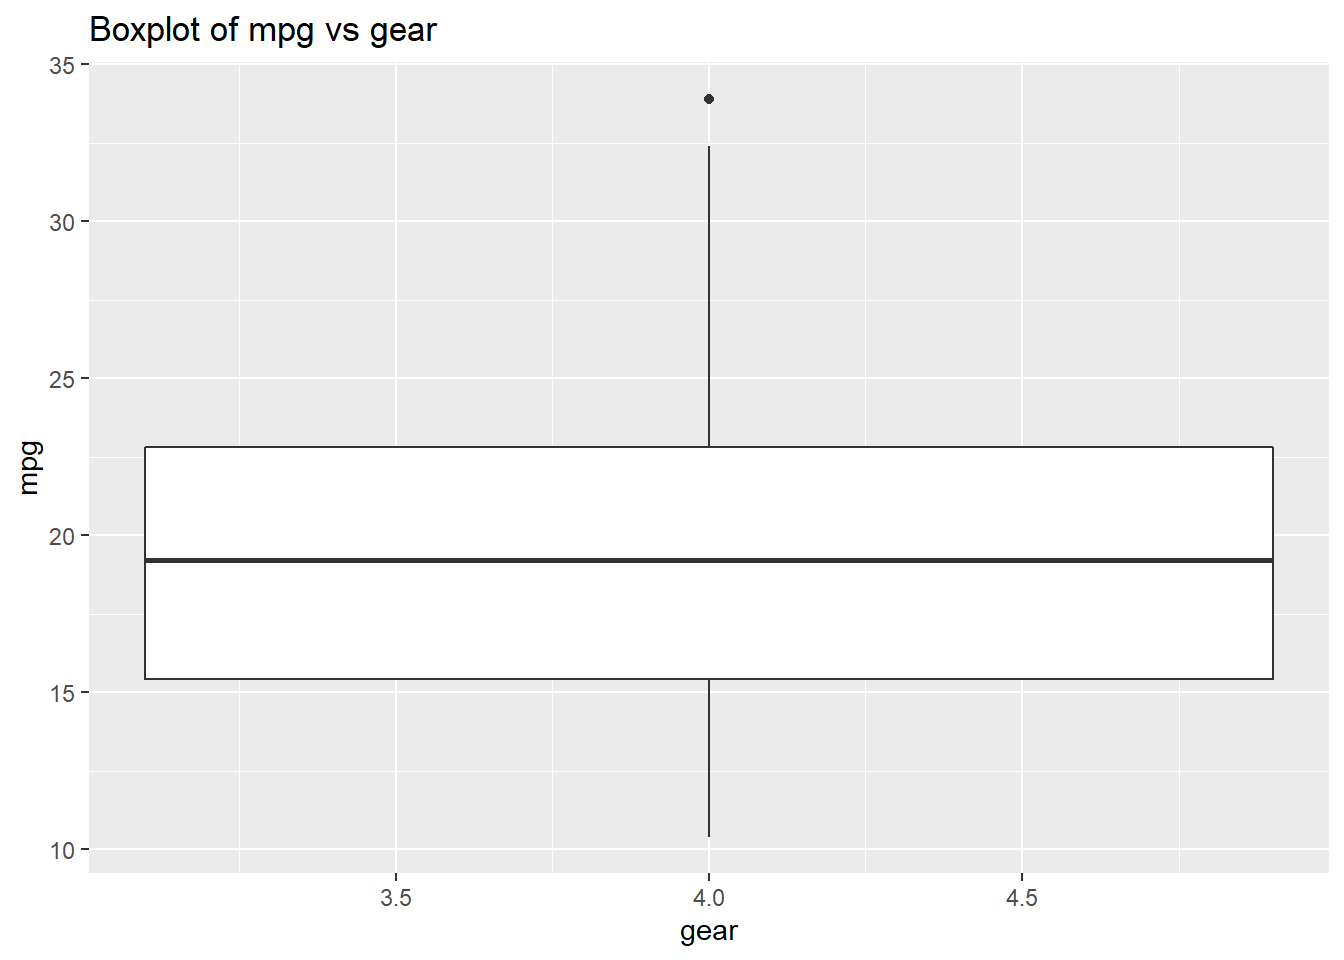
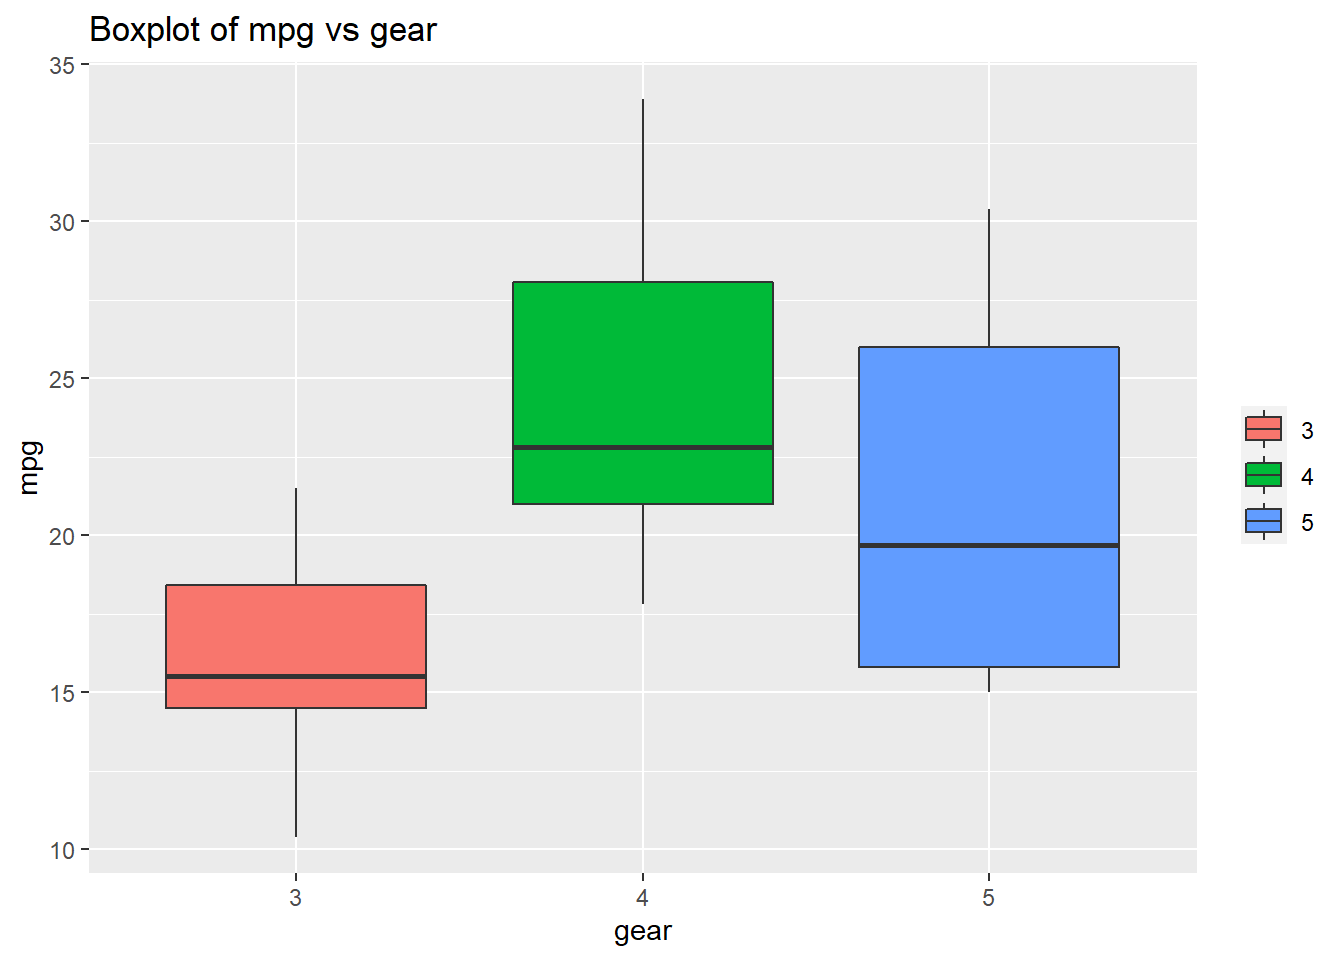
some changes

diff --git a/docs/first-analysis.html b/docs/first-analysis.html
@@ -504,22 +504,24 @@ This reproducible <a href="http://rmarkdown.rstudio.com">R Markdown</a> analysis
 <div class="panel panel-default">
 <div class="panel-heading">
 <p class="panel-title">
-<a data-toggle="collapse" data-parent="#workflowr-checks" href="#strongRepositoryversionstrongahrefhttpsgithubcomsamanwoy1989dummyprojecttree28acb79a84bc8ef421eb36417bda41cee24a1798targetblank28acb79a"> <span class="glyphicon glyphicon-ok text-success" aria-hidden="true"></span> <strong>Repository version:</strong> <a href="https://github.com/samanwoy1989/dummyproject/tree/28acb79a84bc8ef421eb36417bda41cee24a1798" target="_blank">28acb79</a> </a>
+<a data-toggle="collapse" data-parent="#workflowr-checks" href="#strongRepositoryversionstrongahrefhttpsgithubcomsamanwoy1989dummyprojecttree853419b6a172e4cd4d84f2b27a9aa2af71fd3926targetblank853419ba"> <span class="glyphicon glyphicon-ok text-success" aria-hidden="true"></span> <strong>Repository version:</strong> <a href="https://github.com/samanwoy1989/dummyproject/tree/853419b6a172e4cd4d84f2b27a9aa2af71fd3926" target="_blank">853419b</a> </a>
 </p>
 </div>
[2 lines of base64/hex data omitted]
 <div class="panel-body">
 <p>
 Great! You are using Git for version control. Tracking code development and connecting the code version to the results is critical for reproducibility.
 </p>
 <p>
-The results in this page were generated with repository version <a href="https://github.com/samanwoy1989/dummyproject/tree/28acb79a84bc8ef421eb36417bda41cee24a1798" target="_blank">28acb79</a>. See the <em>Past versions</em> tab to see a history of the changes made to the R Markdown and HTML files.
+The results in this page were generated with repository version <a href="https://github.com/samanwoy1989/dummyproject/tree/853419b6a172e4cd4d84f2b27a9aa2af71fd3926" target="_blank">853419b</a>. See the <em>Past versions</em> tab to see a history of the changes made to the R Markdown and HTML files.
 </p>
 <p>
 Note that you need to be careful to ensure that all relevant files for the analysis have been committed to Git prior to generating the results (you can use <code>wflow_publish</code> or <code>wflow_git_commit</code>). workflowr only checks the R Markdown file, but you know if there are other scripts or data files that it depends on. Below is the status of the Git repository when the results were generated:
 </p>
 <pre><code>
-working directory clean
+Unstaged changes:
+    Modified:   analysis/about.Rmd
+
 </code></pre>
 <p>
 Note that any generated files, e.g. HTML, png, CSS, etc., are not included in this status report because it is ok for generated content to have uncommitted changes.
@@ -562,6 +564,40 @@ Message
 Rmd
 </td>
 <td>
+<a href="https://github.com/samanwoy1989/dummyproject/blob/853419b6a172e4cd4d84f2b27a9aa2af71fd3926/analysis/first-analysis.Rmd" target="_blank">853419b</a>
+</td>
+<td>
+Samanwoy Mukhopadhyay
+</td>
+<td>
+2020-09-18
+</td>
+<td>
+wflow_git_commit(“analysis/”)
+</td>
+</tr>
+<tr>
+<td>
+html
+</td>
+<td>
+<a href="https://rawcdn.githack.com/samanwoy1989/dummyproject/af764675da27c3e96767caff268a30aac62794c3/docs/first-analysis.html" target="_blank">af76467</a>
+</td>
+<td>
+Samanwoy Mukhopadhyay
+</td>
+<td>
+2020-09-18
+</td>
+<td>
+Build site.
+</td>
+</tr>
+<tr>
+<td>
+Rmd
+</td>
+<td>
 <a href="https://github.com/samanwoy1989/dummyproject/blob/28acb79a84bc8ef421eb36417bda41cee24a1798/analysis/first-analysis.Rmd" target="_blank">28acb79</a>
 </td>
 <td>
@@ -583,6 +619,7 @@ wflow_publish(“analysis/first-analysis.Rmd”)
 </div>
 <div id="introduction" class="section level2">
 <h2>Introduction</h2>
+<p>I am trying to change the image but it is still taking the first image generated. this means the caching is on.</p>
 <pre class="r"><code>library(tidyverse)</code></pre>
 <pre><code>Warning: package &#39;tidyverse&#39; was built under R version 4.0.2</code></pre>
 <pre><code>-- Attaching packages -------------- tidyverse 1.3.0 --</code></pre>
@@ -596,12 +633,11 @@ v readr   1.3.1     v forcats 0.5.0</code></pre>
 x dplyr::filter() masks stats::filter()
 x dplyr::lag()    masks stats::lag()</code></pre>
 <pre class="r"><code>dat = as_tibble(mtcars)
-mtcars$gear = factor(mtcars$gear)
+dat$gear = factor(mtcars$gear)
 ggplot(dat, aes(x=gear, y=mpg, fill=gear))+
   geom_boxplot()+
   ggtitle(&quot;Boxplot of mpg vs gear&quot;)+
   theme(legend.title = element_blank())</code></pre>
-<pre><code>Warning: Continuous x aesthetic -- did you forget aes(group=...)?</code></pre>
 <div class="figure" style="text-align: left">
 <img src="figure/first-analysis.Rmd/unnamed-chunk-1-1.png" alt="A dummy boxplot trying for project testing" width="672" />
 <p class="caption">
@@ -631,9 +667,9 @@ attached base packages:
 [1] stats     graphics  grDevices utils     datasets  methods   base     
 
 other attached packages:
- [1] forcats_0.5.0   stringr_1.4.0   dplyr_1.0.0     purrr_0.3.4    
- [5] readr_1.3.1     tidyr_1.1.0     tibble_3.0.3    ggplot2_3.3.2  
- [9] tidyverse_1.3.0 workflowr_1.6.2
+[1] forcats_0.5.0   stringr_1.4.0   dplyr_1.0.0     purrr_0.3.4    
+[5] readr_1.3.1     tidyr_1.1.0     tibble_3.0.3    ggplot2_3.3.2  
+[9] tidyverse_1.3.0
 
 loaded via a namespace (and not attached):
  [1] tidyselect_1.1.0  xfun_0.15         haven_2.3.1       colorspace_1.4-1 
@@ -641,16 +677,16 @@ loaded via a namespace (and not attached):
  [9] blob_1.2.1        rlang_0.4.7       later_1.1.0.1     pillar_1.4.6     
 [13] withr_2.2.0       glue_1.4.1        DBI_1.1.0         dbplyr_1.4.4     
 [17] modelr_0.1.8      readxl_1.3.1.9000 lifecycle_0.2.0   munsell_0.5.0    
-[21] gtable_0.3.0      cellranger_1.1.0  rvest_0.3.5       evaluate_0.14    
-[25] labeling_0.3      knitr_1.29        httpuv_1.5.4      fansi_0.4.1      
-[29] highr_0.8         broom_0.7.0       Rcpp_1.0.5        promises_1.1.1   
-[33] backports_1.1.7   scales_1.1.1      jsonlite_1.7.0    farver_2.0.3     
-[37] fs_1.4.2          hms_0.5.3         digest_0.6.25     stringi_1.4.6    
-[41] rprojroot_1.3-2   grid_4.0.1        cli_2.0.2         tools_4.0.1      
-[45] magrittr_1.5      crayon_1.3.4      whisker_0.4       pkgconfig_2.0.3  
-[49] ellipsis_0.3.1    xml2_1.3.2        reprex_0.3.0      lubridate_1.7.9  
-[53] assertthat_0.2.1  rmarkdown_2.3     httr_1.4.2        rstudioapi_0.11  
-[57] R6_2.4.1          git2r_0.27.1      compiler_4.0.1   </code></pre>
+[21] gtable_0.3.0      workflowr_1.6.2   cellranger_1.1.0  rvest_0.3.5      
+[25] evaluate_0.14     labeling_0.3      knitr_1.29        httpuv_1.5.4     
+[29] fansi_0.4.1       highr_0.8         broom_0.7.0       Rcpp_1.0.5       
+[33] promises_1.1.1    backports_1.1.7   scales_1.1.1      jsonlite_1.7.0   
+[37] farver_2.0.3      fs_1.4.2          hms_0.5.3         digest_0.6.25    
+[41] stringi_1.4.6     rprojroot_1.3-2   grid_4.0.1        cli_2.0.2        
+[45] tools_4.0.1       magrittr_1.5      crayon_1.3.4      whisker_0.4      
+[49] pkgconfig_2.0.3   ellipsis_0.3.1    xml2_1.3.2        reprex_0.3.0     
+[53] lubridate_1.7.9   assertthat_0.2.1  rmarkdown_2.3     httr_1.4.2       
+[57] rstudioapi_0.11   R6_2.4.1          git2r_0.27.1      compiler_4.0.1   </code></pre>
 </div>
 </div>
 

diff --git a/docs/about.html b/docs/about.html
@@ -22,6 +22,8 @@
 <script src="site_libs/navigation-1.1/tabsets.js"></script>
 <link href="site_libs/highlightjs-9.12.0/textmate.css" rel="stylesheet" />
 <script src="site_libs/highlightjs-9.12.0/highlight.js"></script>
+<link href="site_libs/font-awesome-5.1.0/css/all.css" rel="stylesheet" />
+<link href="site_libs/font-awesome-5.1.0/css/v4-shims.css" rel="stylesheet" />
 
 <link rel="icon" href="https://github.com/workflowr/workflowr-assets/raw/master/img/reproducible.png">
 <!-- Add a small amount of space between sections. -->
@@ -290,7 +292,13 @@ $(document).ready(function () {
 </li>
       </ul>
       <ul class="nav navbar-nav navbar-right">
-        
+        <li>
+  <a href="https://github.com/samanwoy1989/dummyproject">
+    <span class="fa fa-github"></span>
+     
+    Source code
+  </a>
+</li>
       </ul>
     </div><!--/.nav-collapse -->
   </div><!--/.container -->
@@ -307,7 +315,7 @@ $(document).ready(function () {
 
 <p>
 <button type="button" class="btn btn-default btn-workflowr btn-workflowr-report" data-toggle="collapse" data-target="#workflowr-report">
-<span class="glyphicon glyphicon-list" aria-hidden="true"></span> workflowr <span class="glyphicon glyphicon-ok text-success" aria-hidden="true"></span>
+<span class="glyphicon glyphicon-list" aria-hidden="true"></span> workflowr <span class="glyphicon glyphicon-exclamation-sign text-danger" aria-hidden="true"></span>
 </button>
 </p>
 <div id="workflowr-report" class="collapse">
@@ -316,7 +324,7 @@ $(document).ready(function () {
 <a data-toggle="tab" href="#summary">Summary</a>
 </li>
 <li>
-<a data-toggle="tab" href="#checks"> Checks <span class="glyphicon glyphicon-ok text-success" aria-hidden="true"></span> </a>
+<a data-toggle="tab" href="#checks"> Checks <span class="glyphicon glyphicon-exclamation-sign text-danger" aria-hidden="true"></span> </a>
 </li>
 <li>
 <a data-toggle="tab" href="#versions">Past versions</a>
@@ -328,7 +336,7 @@ $(document).ready(function () {
 <strong>Last updated:</strong> 2020-09-18
 </p>
 <p>
-<strong>Checks:</strong> <span class="glyphicon glyphicon-ok text-success" aria-hidden="true"></span> 2 <span class="glyphicon glyphicon-exclamation-sign text-danger" aria-hidden="true"></span> 0
+<strong>Checks:</strong> <span class="glyphicon glyphicon-ok text-success" aria-hidden="true"></span> 1 <span class="glyphicon glyphicon-exclamation-sign text-danger" aria-hidden="true"></span> 1
 </p>
 <p>
 <strong>Knit directory:</strong> <code>dummyproject/</code> <span class="glyphicon glyphicon-question-sign" aria-hidden="true" title="This is the local directory in which the code in this file was executed."> </span>
@@ -344,34 +352,36 @@ This reproducible <a href="http://rmarkdown.rstudio.com">R Markdown</a> analysis
 <div class="panel panel-default">
 <div class="panel-heading">
 <p class="panel-title">
-<a data-toggle="collapse" data-parent="#workflowr-checks" href="#strongRMarkdownfilestronguptodate"> <span class="glyphicon glyphicon-ok text-success" aria-hidden="true"></span> <strong>R Markdown file:</strong> up-to-date </a>
+<a data-toggle="collapse" data-parent="#workflowr-checks" href="#strongRMarkdownfilestronguncommittedchanges"> <span class="glyphicon glyphicon-exclamation-sign text-danger" aria-hidden="true"></span> <strong>R Markdown file:</strong> uncommitted changes </a>
 </p>
 </div>
-<div id="strongRMarkdownfilestronguptodate" class="panel-collapse collapse">
+<div id="strongRMarkdownfilestronguncommittedchanges" class="panel-collapse collapse">
 <div class="panel-body">
-<p>Great! Since the R Markdown file has been committed to the Git repository, you know the exact version of the code that produced these results.</p>
+<p>The R Markdown file has unstaged changes. To know which version of the R Markdown file created these results, you’ll want to first commit it to the Git repo. If you’re still working on the analysis, you can ignore this warning. When you’re finished, you can run <code>wflow_publish</code> to commit the R Markdown file and build the HTML.</p>
 </div>
 </div>
 </div>
 <div class="panel panel-default">
 <div class="panel-heading">
 <p class="panel-title">
-<a data-toggle="collapse" data-parent="#workflowr-checks" href="#strongRepositoryversionstronge78815c"> <span class="glyphicon glyphicon-ok text-success" aria-hidden="true"></span> <strong>Repository version:</strong> e78815c </a>
+<a data-toggle="collapse" data-parent="#workflowr-checks" href="#strongRepositoryversionstrongahrefhttpsgithubcomsamanwoy1989dummyprojecttree853419b6a172e4cd4d84f2b27a9aa2af71fd3926targetblank853419ba"> <span class="glyphicon glyphicon-ok text-success" aria-hidden="true"></span> <strong>Repository version:</strong> <a href="https://github.com/samanwoy1989/dummyproject/tree/853419b6a172e4cd4d84f2b27a9aa2af71fd3926" target="_blank">853419b</a> </a>
 </p>
 </div>
-<div id="strongRepositoryversionstronge78815c" class="panel-collapse collapse">
[1 lines of base64/hex data omitted]
 <div class="panel-body">
 <p>
 Great! You are using Git for version control. Tracking code development and connecting the code version to the results is critical for reproducibility.
 </p>
 <p>
-The results in this page were generated with repository version e78815c. See the <em>Past versions</em> tab to see a history of the changes made to the R Markdown and HTML files.
+The results in this page were generated with repository version <a href="https://github.com/samanwoy1989/dummyproject/tree/853419b6a172e4cd4d84f2b27a9aa2af71fd3926" target="_blank">853419b</a>. See the <em>Past versions</em> tab to see a history of the changes made to the R Markdown and HTML files.
 </p>
 <p>
 Note that you need to be careful to ensure that all relevant files for the analysis have been committed to Git prior to generating the results (you can use <code>wflow_publish</code> or <code>wflow_git_commit</code>). workflowr only checks the R Markdown file, but you know if there are other scripts or data files that it depends on. Below is the status of the Git repository when the results were generated:
 </p>
 <pre><code>
-working directory clean
+Unstaged changes:
+    Modified:   analysis/about.Rmd
+
 </code></pre>
 <p>
 Note that any generated files, e.g. HTML, png, CSS, etc., are not included in this status report because it is ok for generated content to have uncommitted changes.
@@ -411,10 +421,27 @@ Message
 <tbody>
 <tr>
 <td>
+html
+</td>
+<td>
+<a href="https://rawcdn.githack.com/samanwoy1989/dummyproject/0d05a58ef188a4ae5ecfc82f00ae8b0f1d7587cf/docs/about.html" target="_blank">0d05a58</a>
+</td>
+<td>
+Samanwoy Mukhopadhyay
+</td>
+<td>
+2020-09-18
+</td>
+<td>
+Build site.
+</td>
+</tr>
+<tr>
+<td>
 Rmd
 </td>
 <td>
-e78815c
+<a href="https://github.com/samanwoy1989/dummyproject/blob/e78815c3448562f3e3b369248c6519de9ef85fef/analysis/about.Rmd" target="_blank">e78815c</a>
 </td>
 <td>
 Samanwoy Mukhopadhyay
@@ -433,7 +460,7 @@ Start workflowr project.
 </div>
 </div>
 </div>
-<p>Describe your project.</p>
+<p>Describe your project. Some analysis I am doing.</p>
 
 
 <!-- Adjust MathJax settings so that all math formulae are shown using
